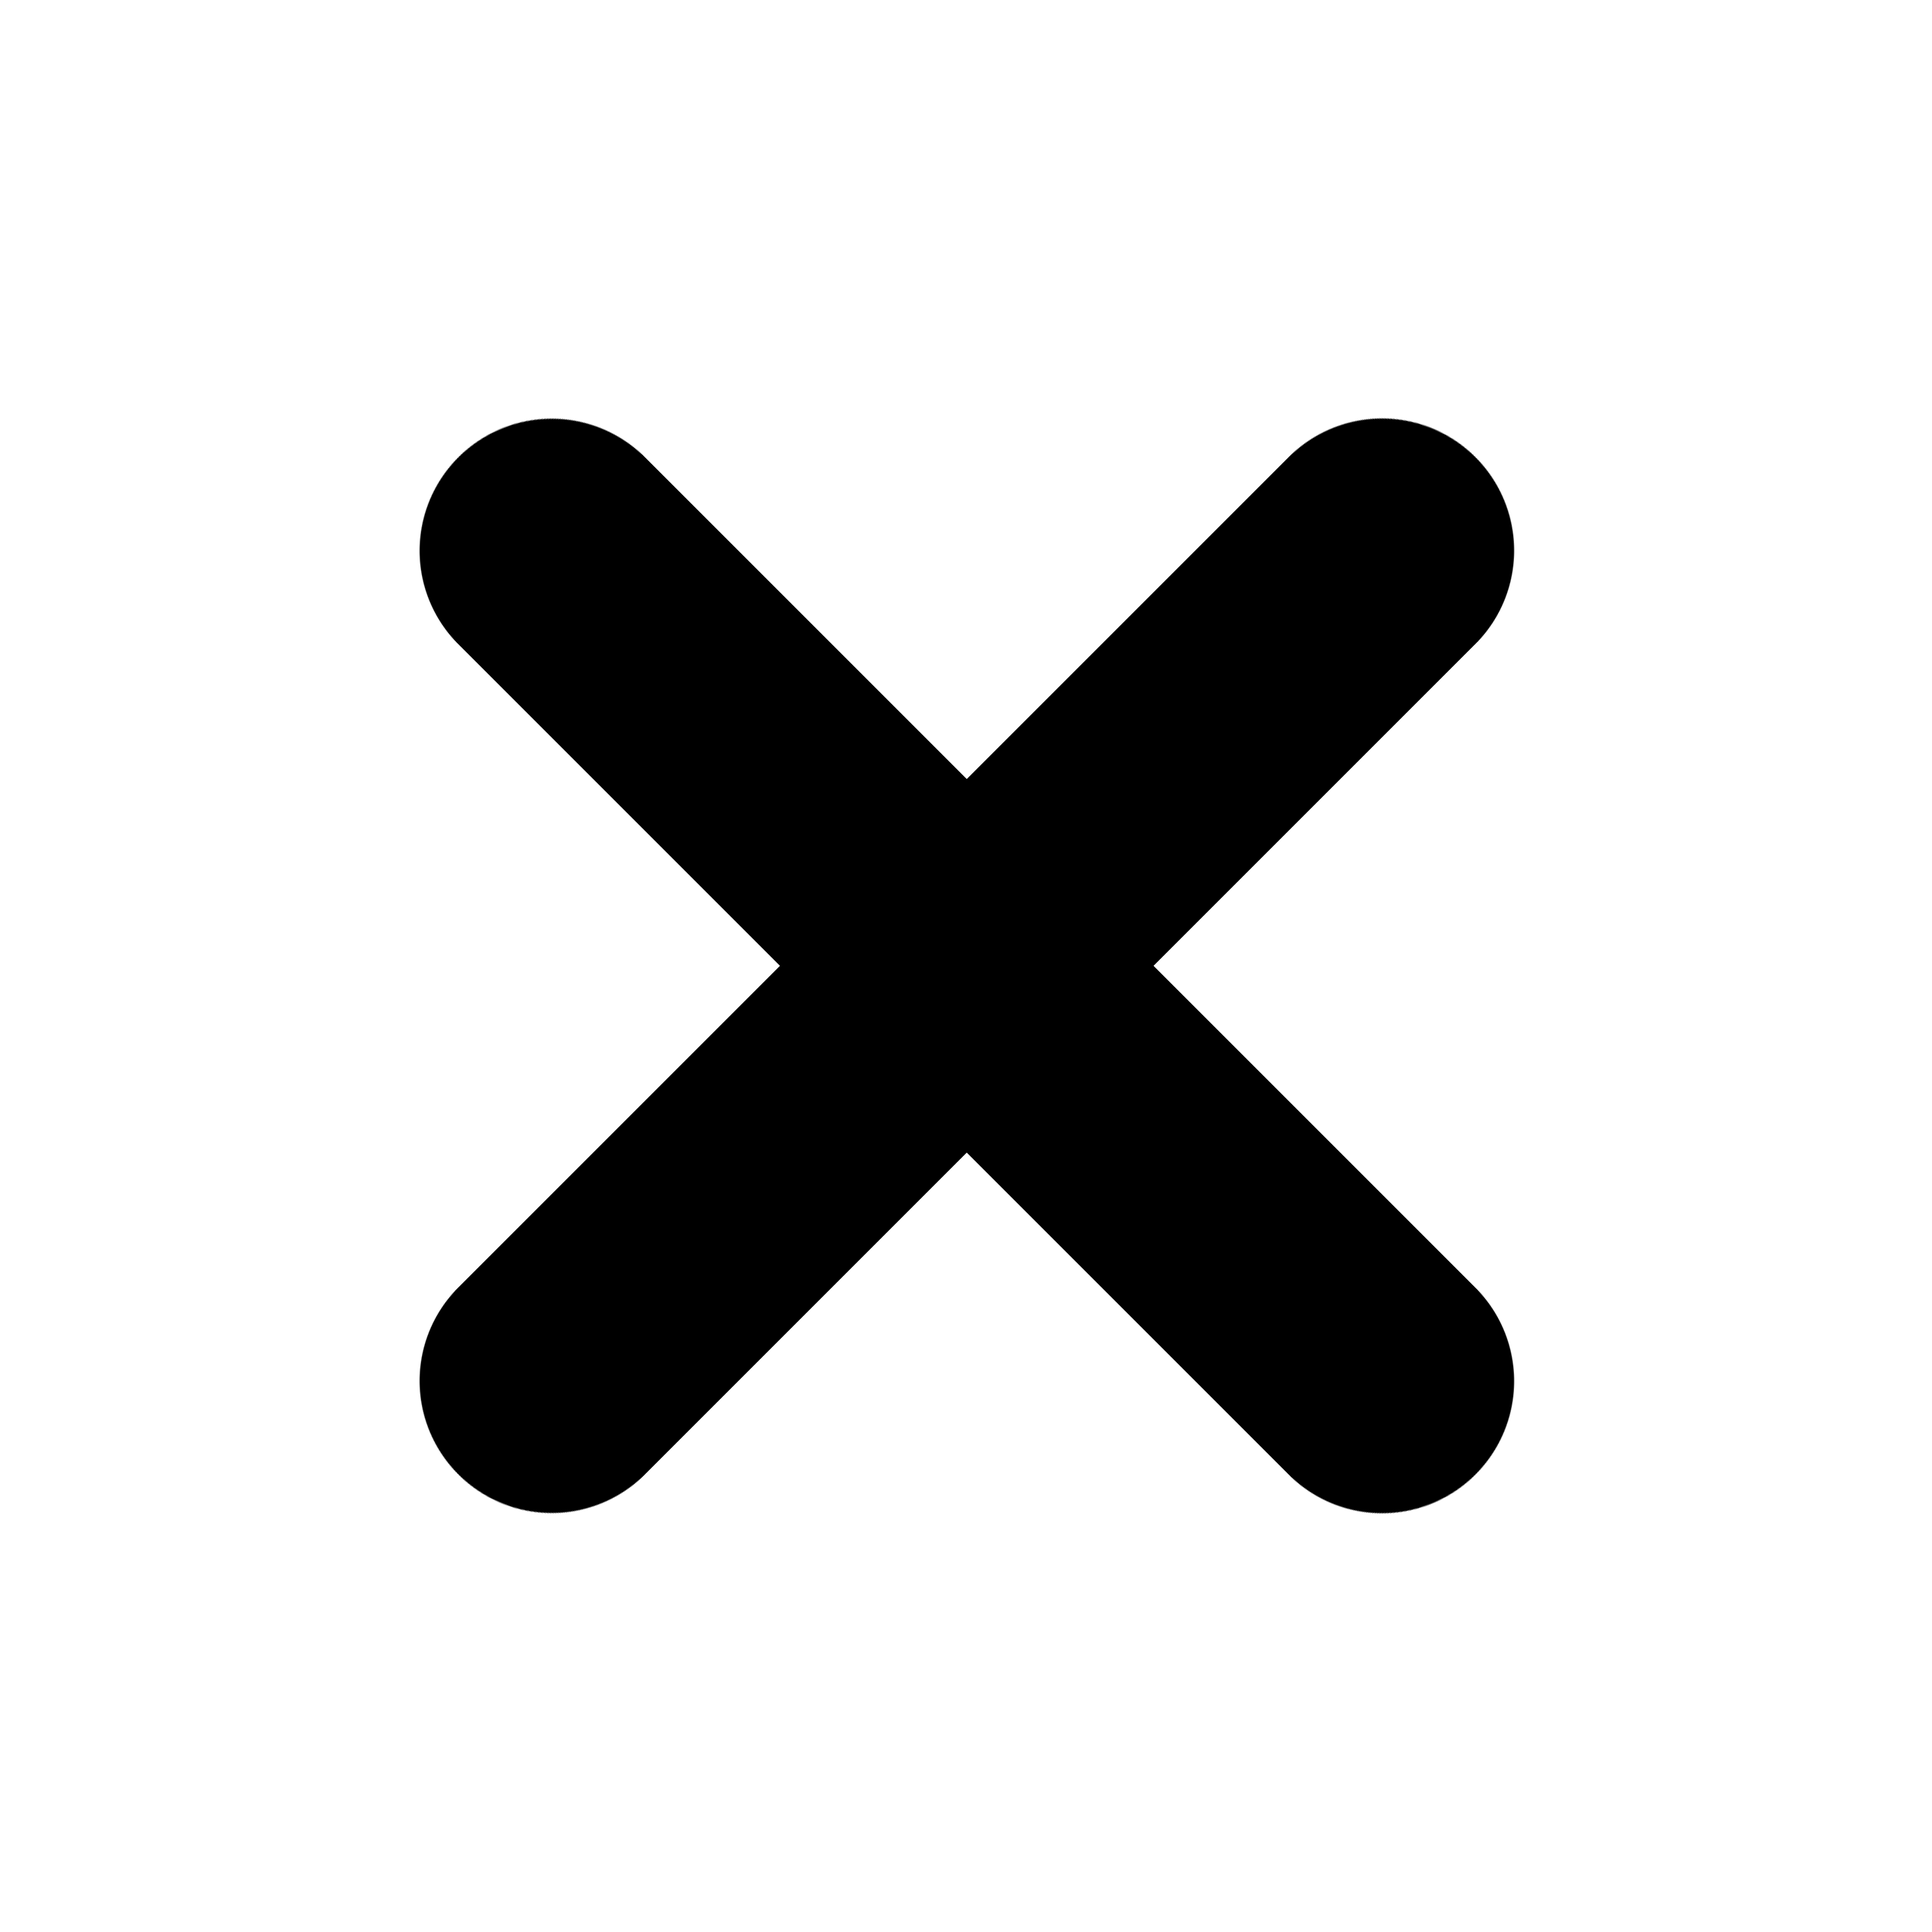
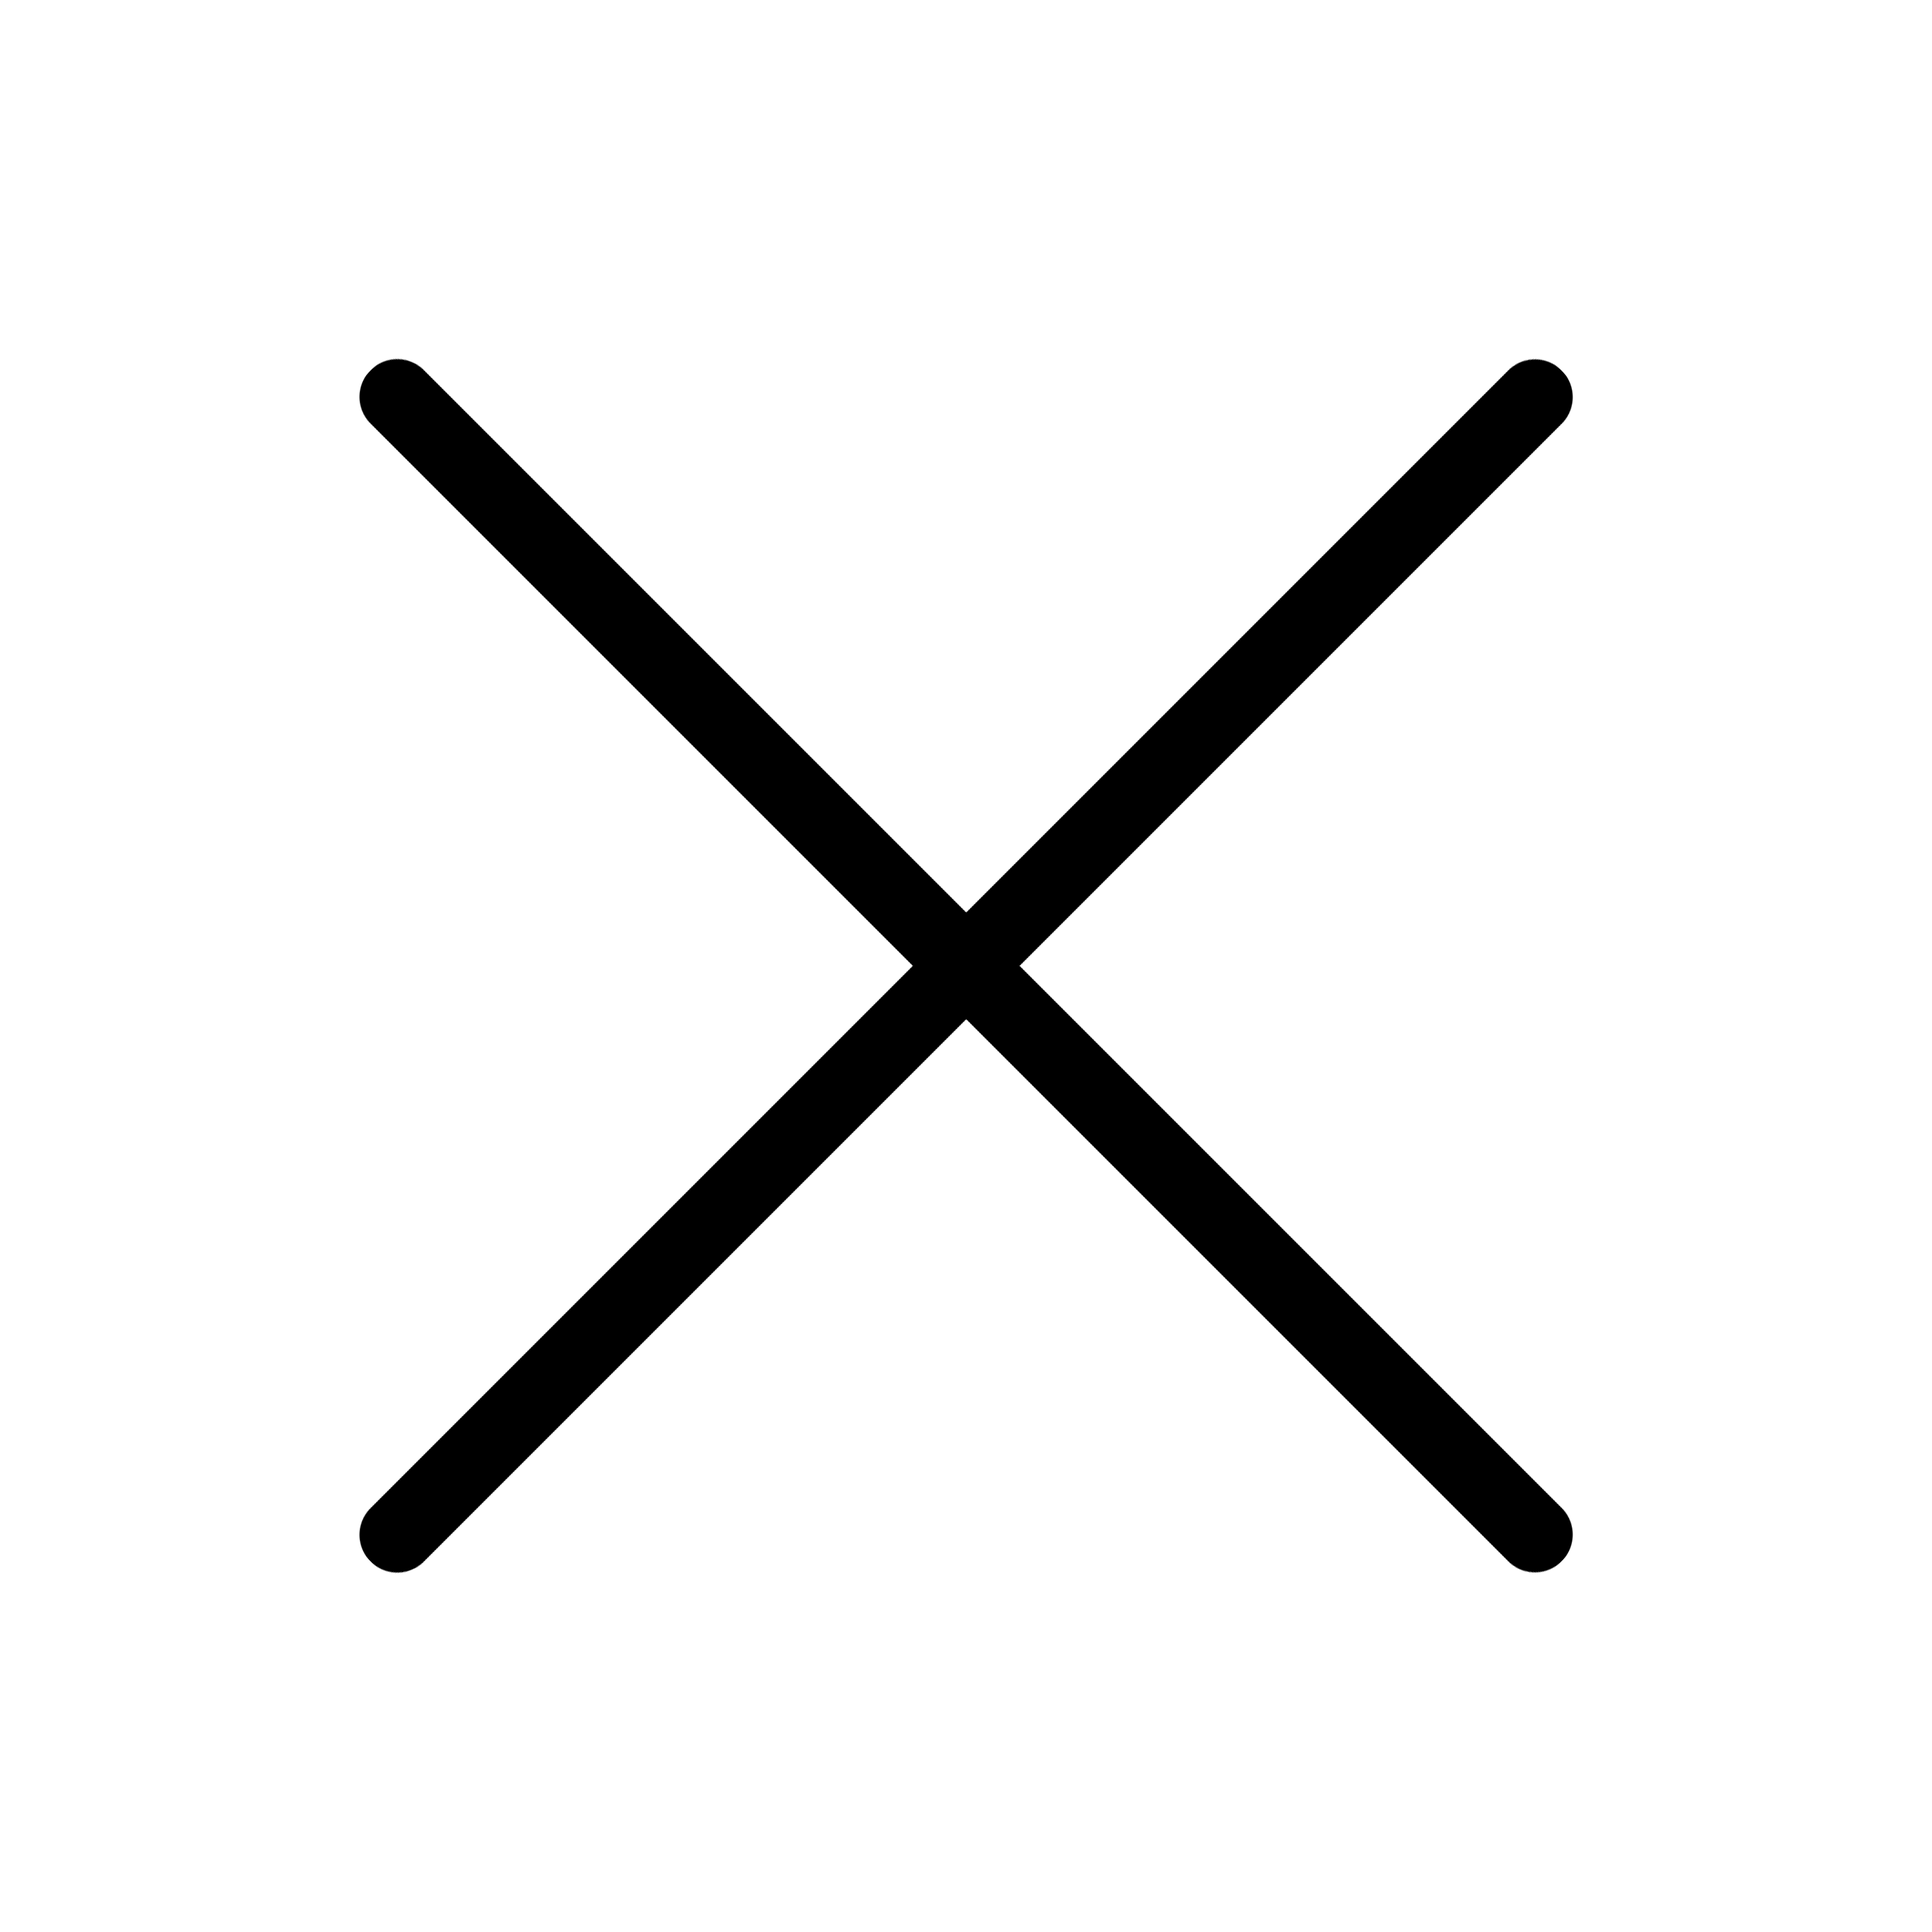
Better looking images + Fixed a testing message

Changed region(s): [[0.1875, 0.1875, 0.8125, 0.8125]]

diff --git a/index.js b/index.js
@@ -24,7 +24,7 @@ const create = () => {
   frame.loadFile('./data/app.html');
   var notif = new Notification({
     title: 'Testing Notification',
-    body: 'Testing the body of this big tittied notification',
+    body: 'Testing the body of this notification',
     silent: true,
     hasReply: false,
     timeoutType: 'default'
